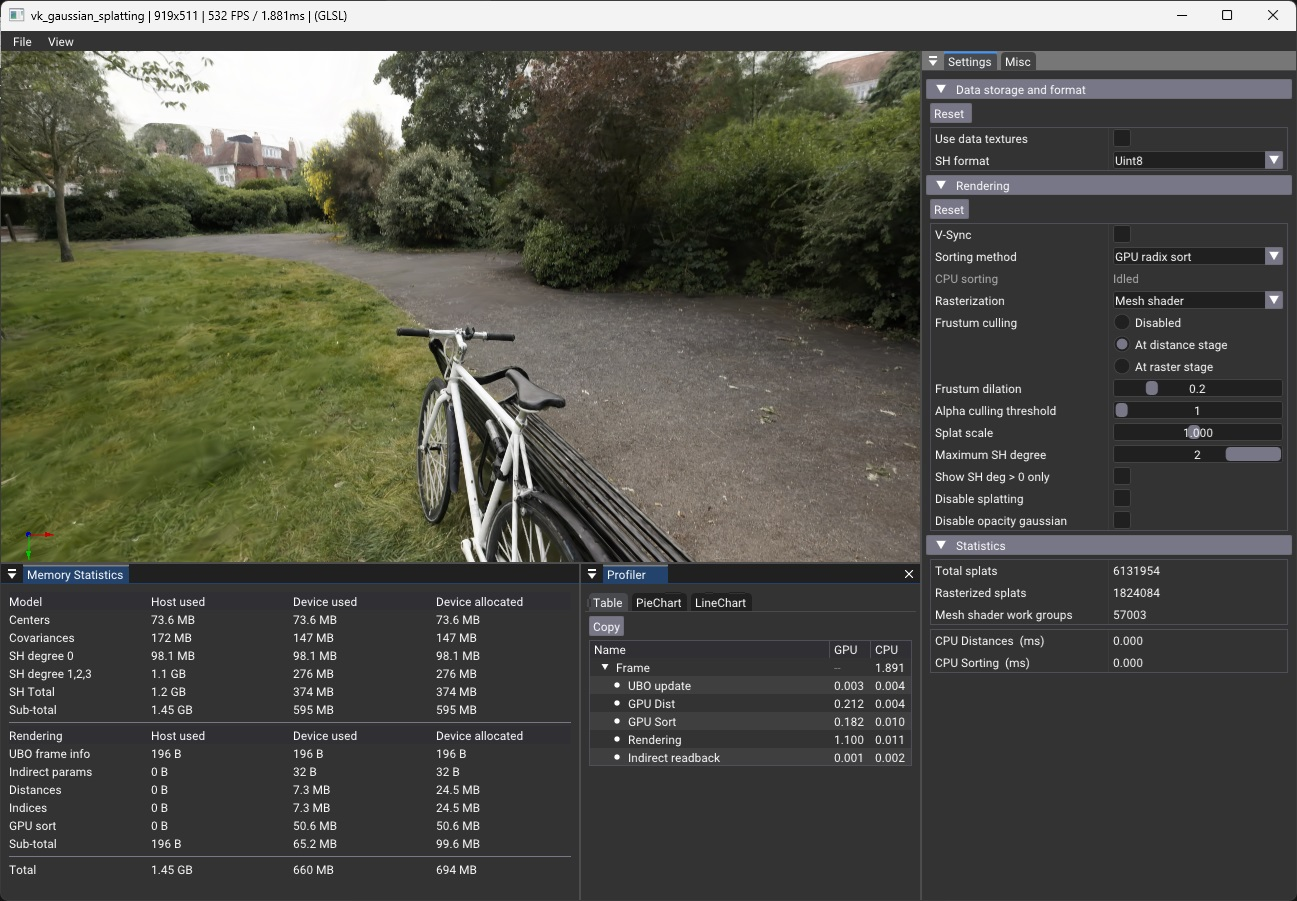
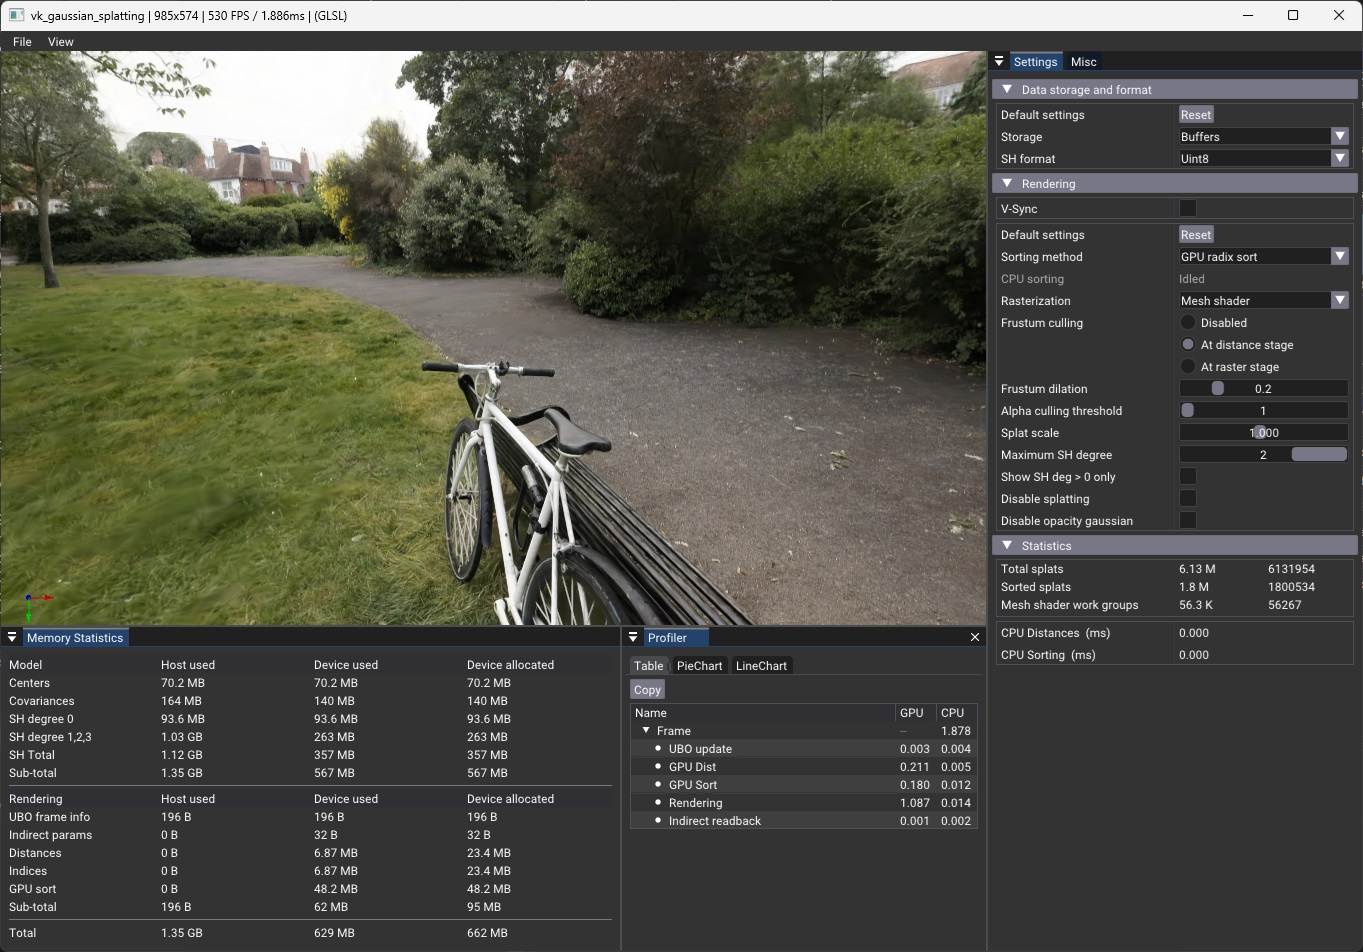
user interface documentation update with format

diff --git a/README.md b/README.md
@@ -63,20 +63,18 @@ The visualization workflow follows these main steps:
 4. Rasterization –
     *    For each new frame, the sorted splats are rasterized using either the Mesh Shader Pipeline or the Vertex Shader Pipeline, depending on the selected rasterization mode.
 
-This structured workflow ensures efficient rendering while allowing different sorting and rasterization strategies to be compared.
-
 ![image showing the user interface viewing the bicycle 3DGS model](doc/user_interface.jpg)
 
 ### Data Format and Storage Panel
 
 The Data Format and Storage Panel allows users to configure how the model's data is stored in VRAM.
-*	**Data Storage** – Selects between **Data Buffers** and **Textures** for storing model attributes, including:
+*	**Storage** – Selects between **Data Buffers** and **Textures** for storing model attributes, including:
     *	Position
     *	Color and Opacity (deduced from SH degree 0 at construction)
     *	Covariance Matrix
     *	Spherical Harmonics (SH) Coefficients (for degrees higher than 0)
 
-This option impacts memory access patterns and performance, allowing comparisons between different storage strategies. In both modes, splat attributes are stored linearly in memory in the order they are loaded from disk.
+This **storage** option impacts memory access patterns and performance, allowing comparisons between different storage strategies. In both modes, splat attributes are stored linearly in memory in the order they are loaded from disk.
 *	**Data Buffer Mode** – Uses a separate buffer for each attribute type.
     *	This layout improves memory lookups during shader execution, as threads access attributes in sequential stages (e.g., first positions, then colors, etc.).
     *  	Buffers are allocated and initialized by the [initDataBuffers](src/gaussian_splatting.cpp#L809) method.
@@ -86,7 +84,10 @@ This option impacts memory access patterns and performance, allowing comparisons
     *	Future work could explore organizing data based on value proximity to leverage texture compression.
     *   Textures are allocated and initialized by the [initDataTextures](src/gaussian_splatting.cpp#L1110) method.
 
-This flexibility enables performance comparisons between buffer-based and texture-based data storage, each with trade-offs in memory access efficiency and potential optimization opportunities.
+Finally, the **SH format** selector controls the precision used for storing spherical harmonics (SH) coefficients.
+
+- **SH format** – Selects between **Float32**, **Float16**, and **UInt8** for SH coefficient storage, balancing precision and memory usage.
+
 
 ### Rendering Panel
 
@@ -111,7 +112,7 @@ The **Profiling Panel** reports the **GPU** and **CPU** time spent on different 
 
 The **Statistics Panel** provides additional information, such as:  
 - The **total number of splats** in the model.  
-- The **number of splats** selected for rasterization (after culling).  
+- The **number of splats** selected for rasterization after sorting.  
 - The **time spent** in the last asynchronous **CPU sort** (if enabled).  
 
 ## Sorting methods
